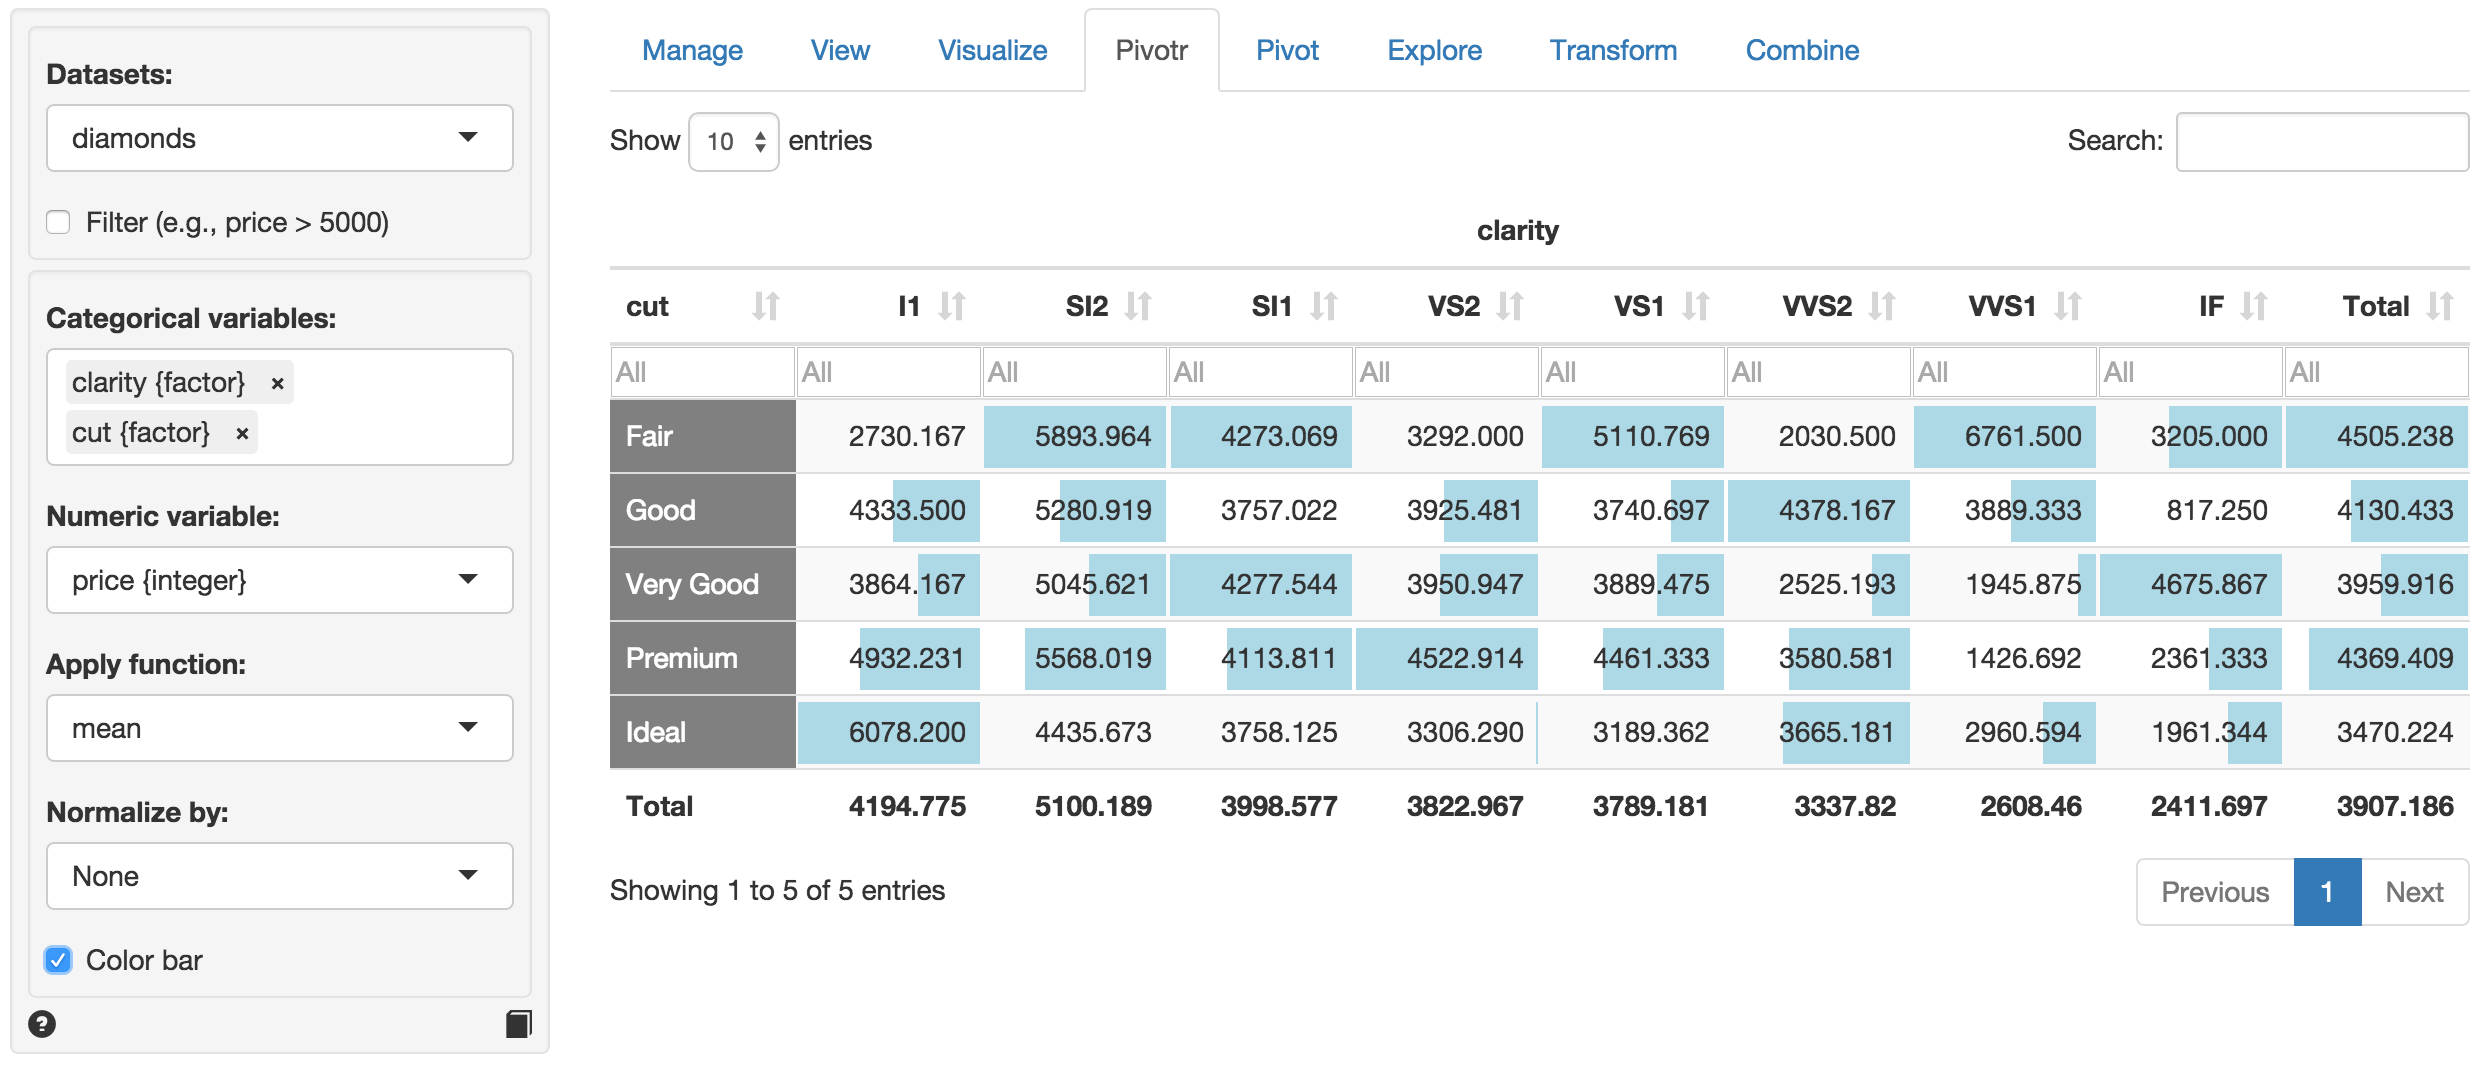
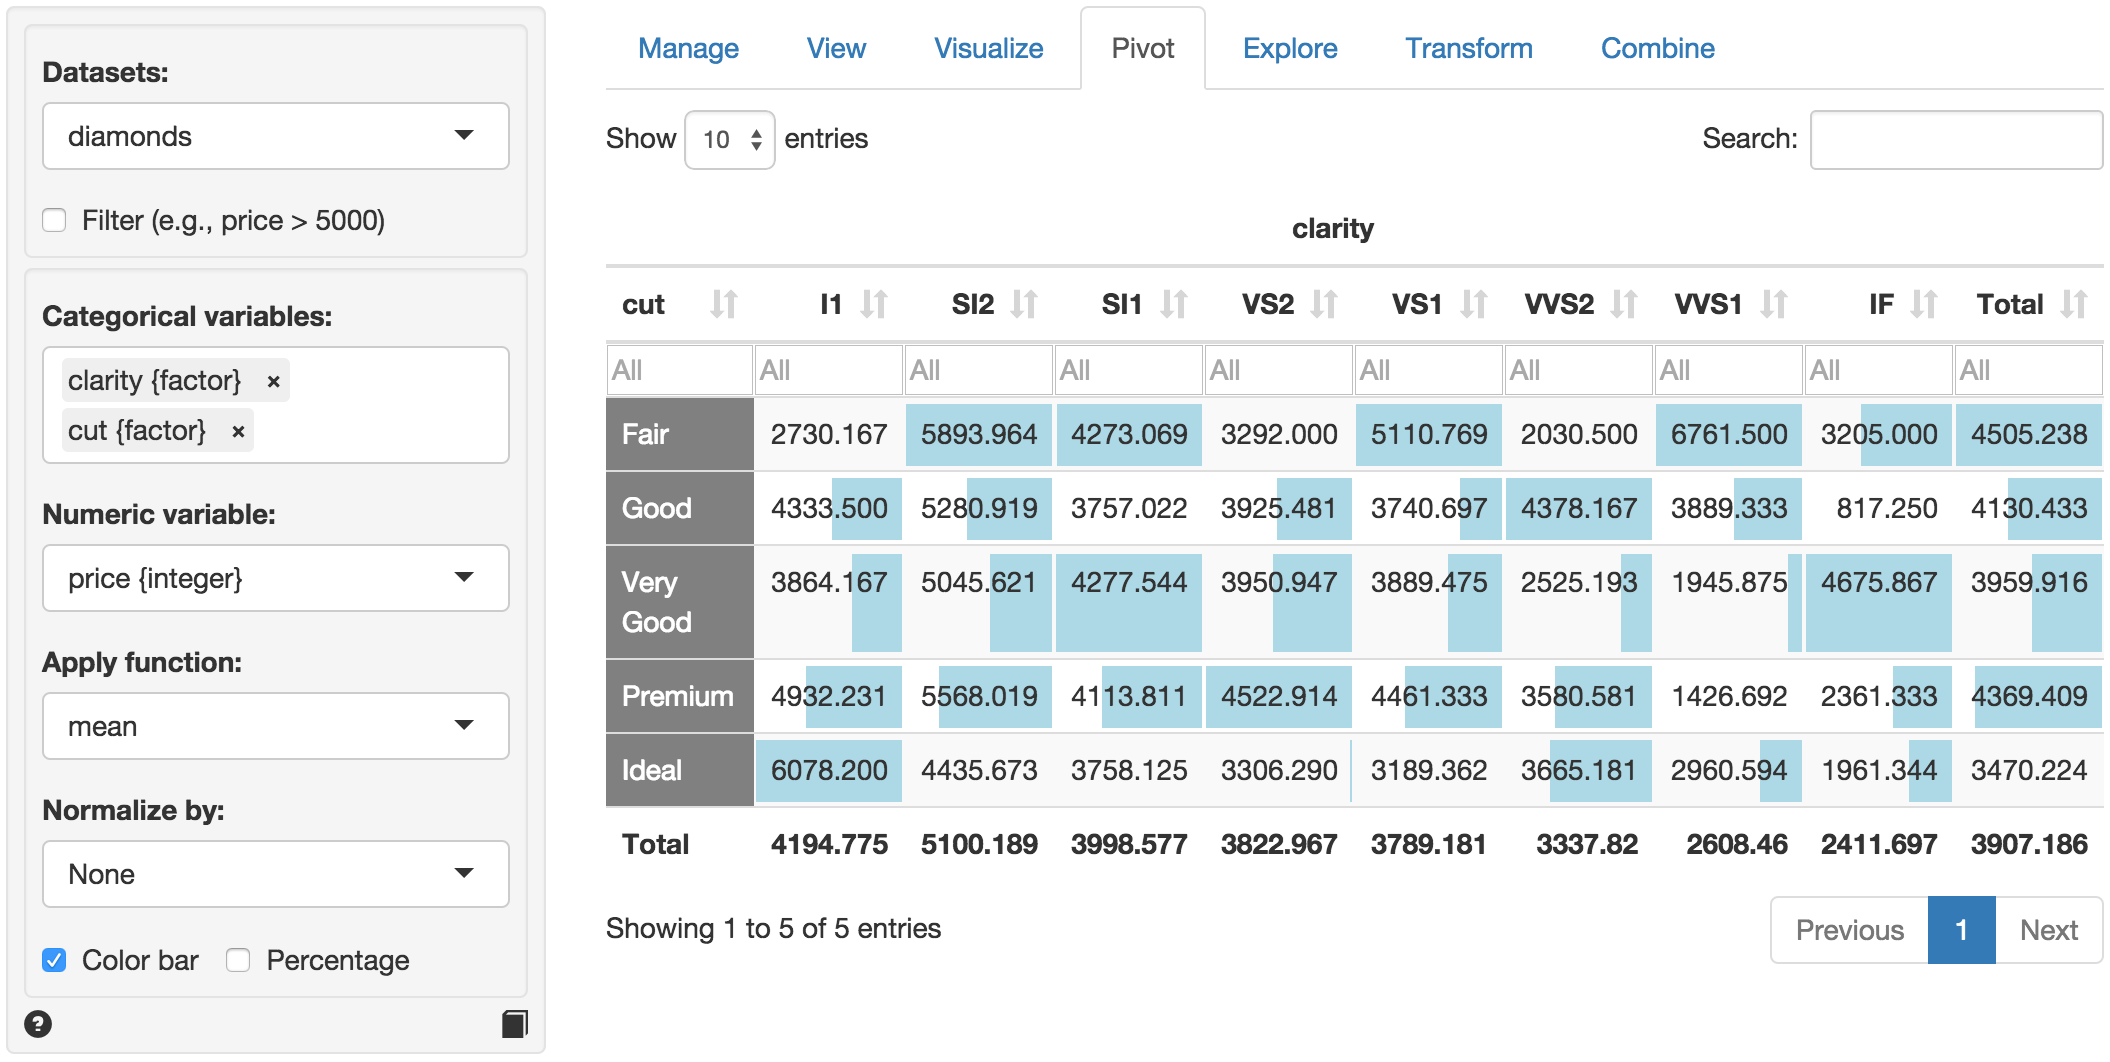
Cleanup - new Pivot tab

diff --git a/inst/base/tools/help/pivotr.md b/inst/base/tools/help/pivotr.md
@@ -2,10 +2,10 @@
 
 If you have used pivot-tables in Excel the functionality provided in the Pivotr tab should be familiar to you. Similar to the Explore tab, you can generate summary statistics for variables in your data. You can also easily generate frequency tables. Perhaps the most powerful feature in Pivotr is that you can easy describe the data _by_ one or more other variables.
 
-For example, with the `diamonds` data select `clarity` and `cut` from the Categorical variables drop-down. You can drag-and-drop the selected variables to change their order. The categories for first variable will be the column headers. After selecting these two variables a frequency table of diamonds with different levels of clarity and quality of cut. Check `Color bar` to emphasize the highest frequency counts. We can also summarize numerical variables. Select `price` from the Numerical variables drop-down. This will table shown below. Just as in the View tab you can sort the table by clicking on the column headers. You can also use sliders (click in the input box below `I1`) to limit the view to values in a specified range. To view only information for diamonds with `Fair` or `Good` cut quality click in the input box below the `cut` header.
+For example, with the `diamonds` data select `clarity` and `cut` from the Categorical variables drop-down. You can drag-and-drop the selected variables to change their order. The categories for first variable will be the column headers. After selecting these two variables a frequency table of diamonds with different levels of clarity and quality of cut. Check `Color bar` to emphasize the highest frequency counts. Choose `Row`, `Column`, or `Total` from the Normalize drop-down to normalize the frequencies by row, column, or overall total. If a normalize option is selected it can be convenient to check the `Percentage` box to express the numbers as percentages. We can also summarize numerical variables. Select `price` from the Numerical variables drop-down. This will table shown below. Just as in the View tab you can sort the table by clicking on the column headers. You can also use sliders (e.g., click in the input box below `I1`) to limit the view to values in a specified range. To view only information for diamonds with `Fair` or `Good` cut quality click in the input box below the `cut` header.
 
 ![pivotr table](figures/pivotr.png)
 
 ### Filter
 
-Use the `Filter` box to select (or omit) specific sets of rows from the data. See the helpfile for Data > View for details.
+Use the `Filter` box to select (or omit) specific sets of rows from the data. See the help file for Data > View for details.
